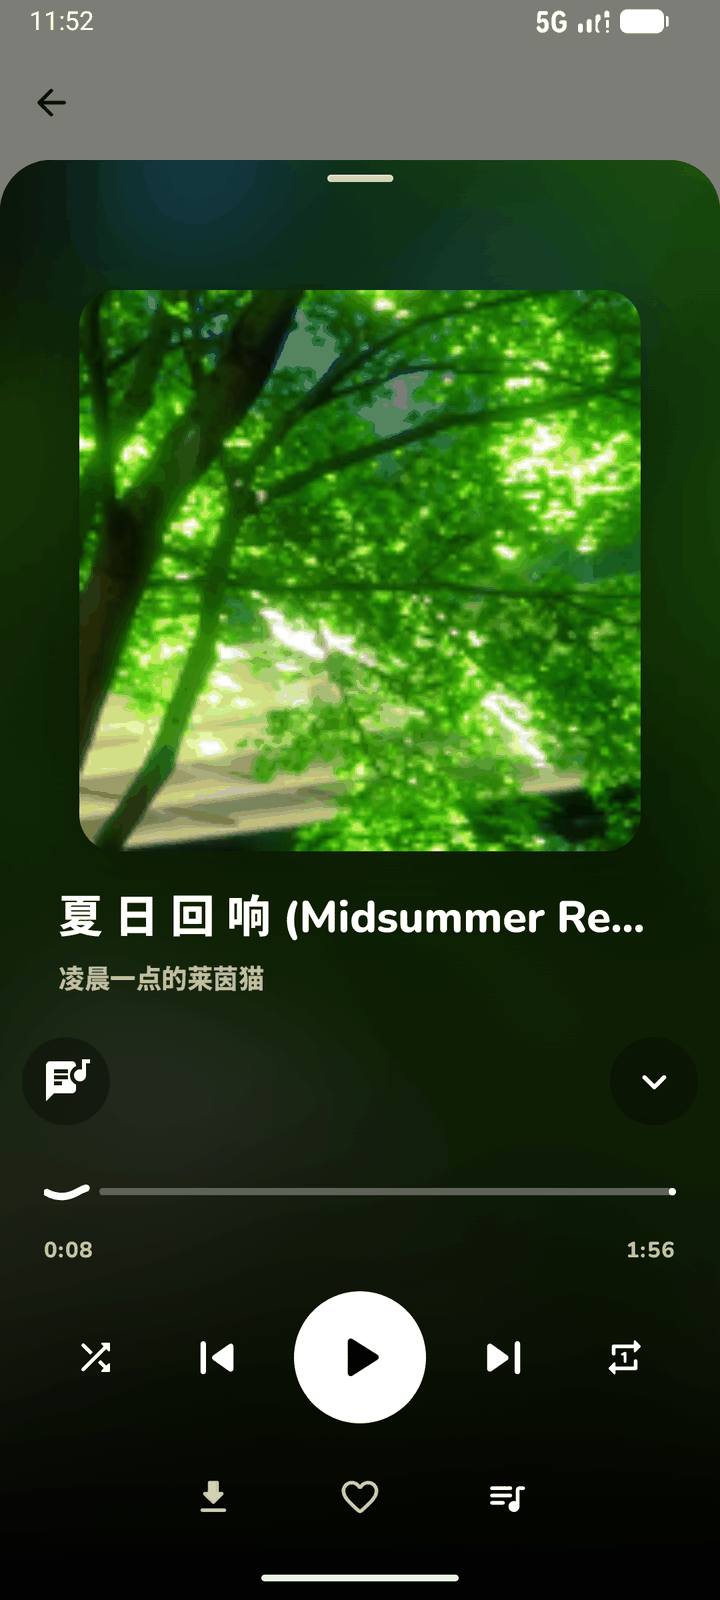
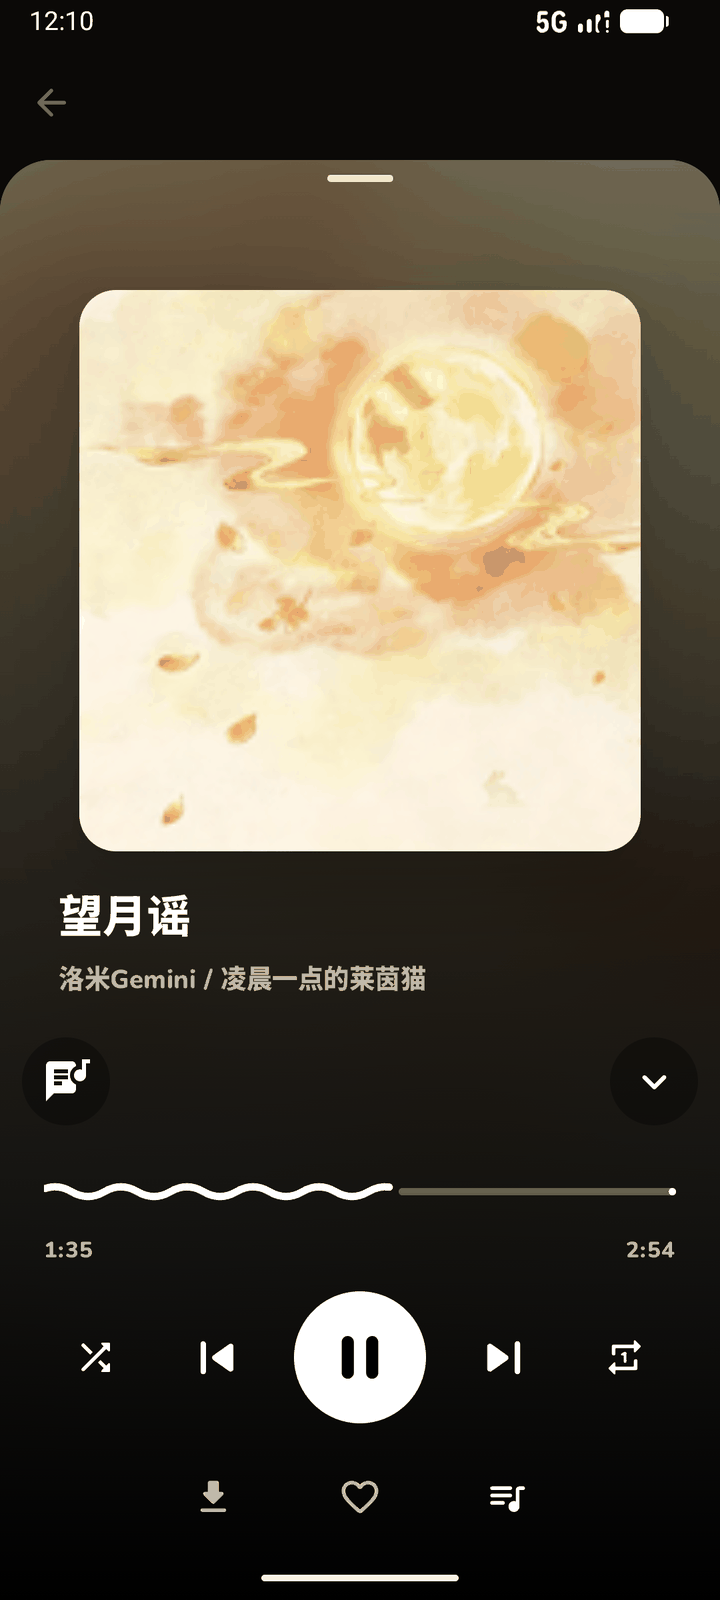
README 截图换深色主题：首页→歌单列表、播放页重截
老陈发来两张真机截图，都是深色主题，和悬浮歌词那张一致——
比我先前从模拟器截的两张浅色的更统一，三张一套看完不跳。

- 首页 → **歌单列表**（歌单详情 + 当前曲高亮 + 悬浮 MiniPlayer + EQ 动画）
- 播放页 → 重新截的（封面/波形进度条/播控齐全，1:35 / 2:54）
- 悬浮歌词不变

文件 home.png 删除、新增 list.png。深色颜色少，压缩比更高：
list 155KB / player 137KB / overlay 378KB，三张共 670KB。

diff --git a/README.md b/README.md
@@ -6,9 +6,9 @@
 
 Android 音乐播放器，插件化架构：应用本体只是一个插件运行框架，搜索、播放、歌词、登录等能力全部由第三方 `.qplug` 插件（Rhino JS）提供。
 
-| 首页 | 播放页 | 悬浮歌词 |
+| 歌单 | 播放页 | 悬浮歌词 |
 |:---:|:---:|:---:|
-| ![首页](docs/screenshots/home.png) | ![播放页](docs/screenshots/player.png) | ![悬浮歌词](docs/screenshots/overlay.png) |
+| ![歌单列表](docs/screenshots/list.png) | ![播放页](docs/screenshots/player.png) | ![悬浮歌词](docs/screenshots/overlay.png) |
 
 ## 功能
 
